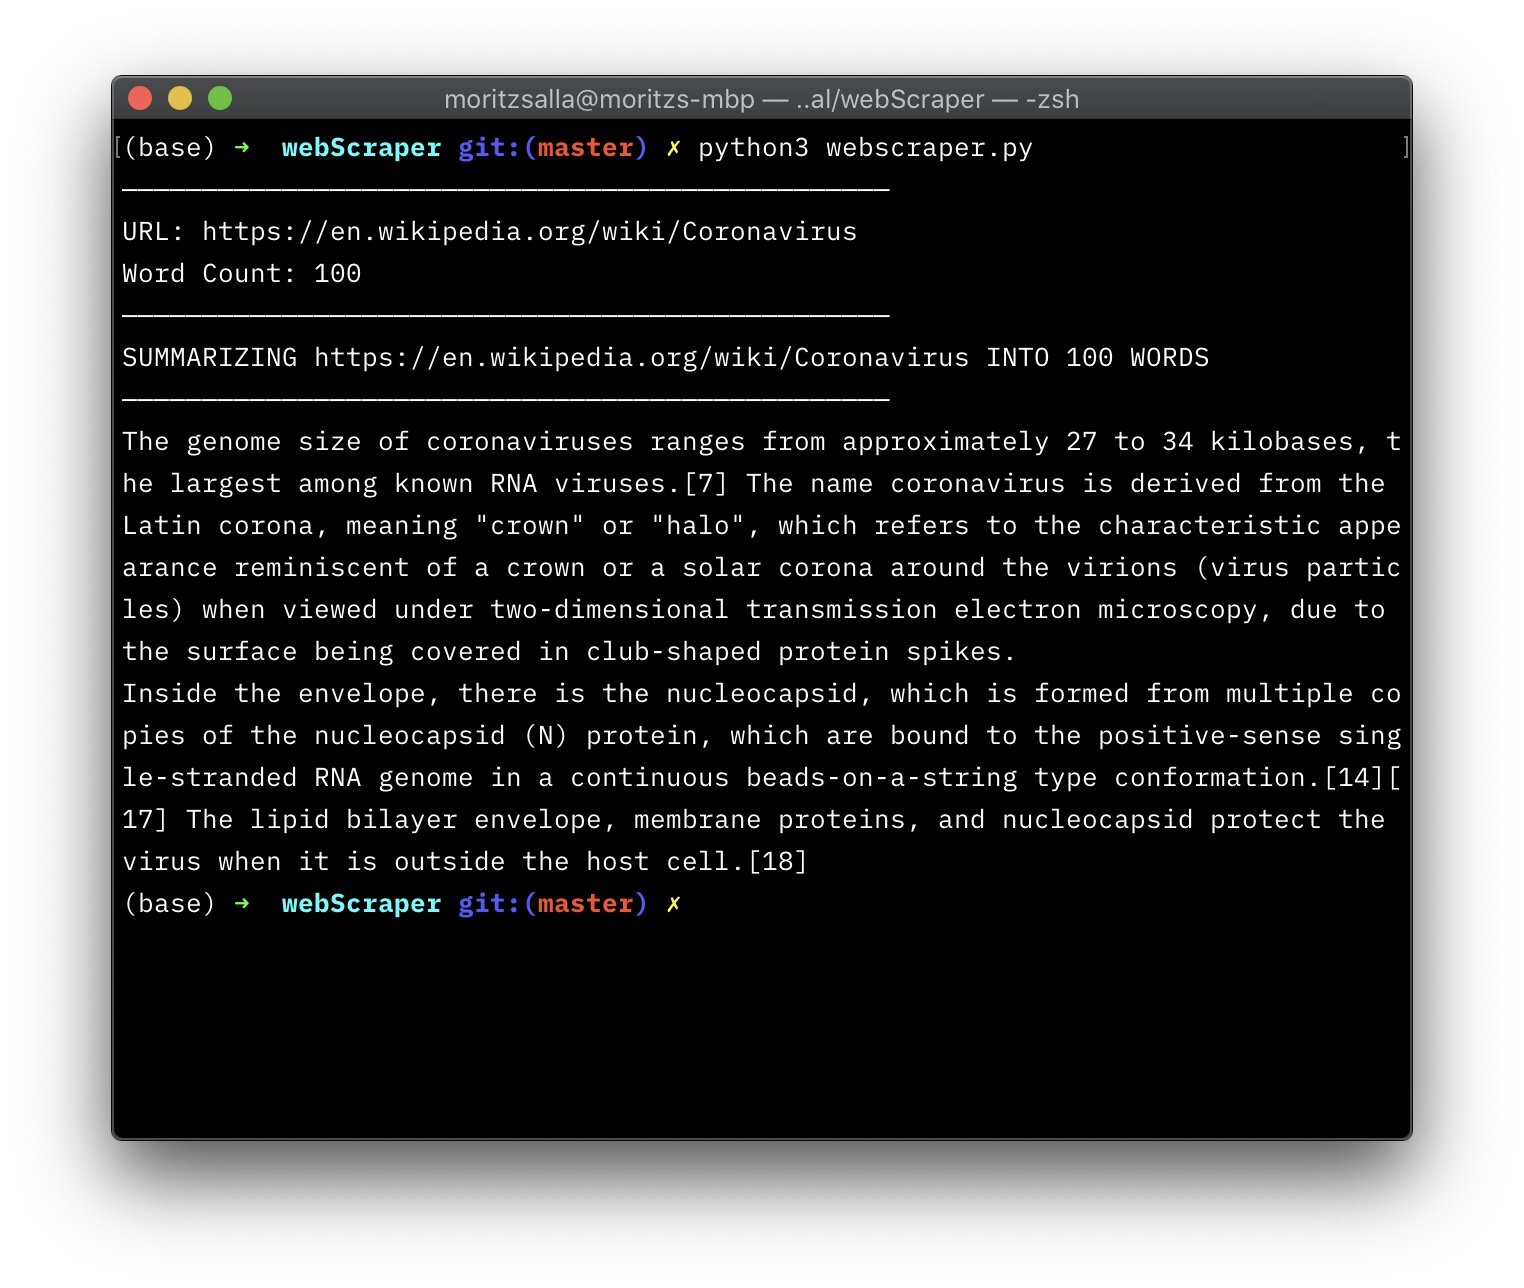
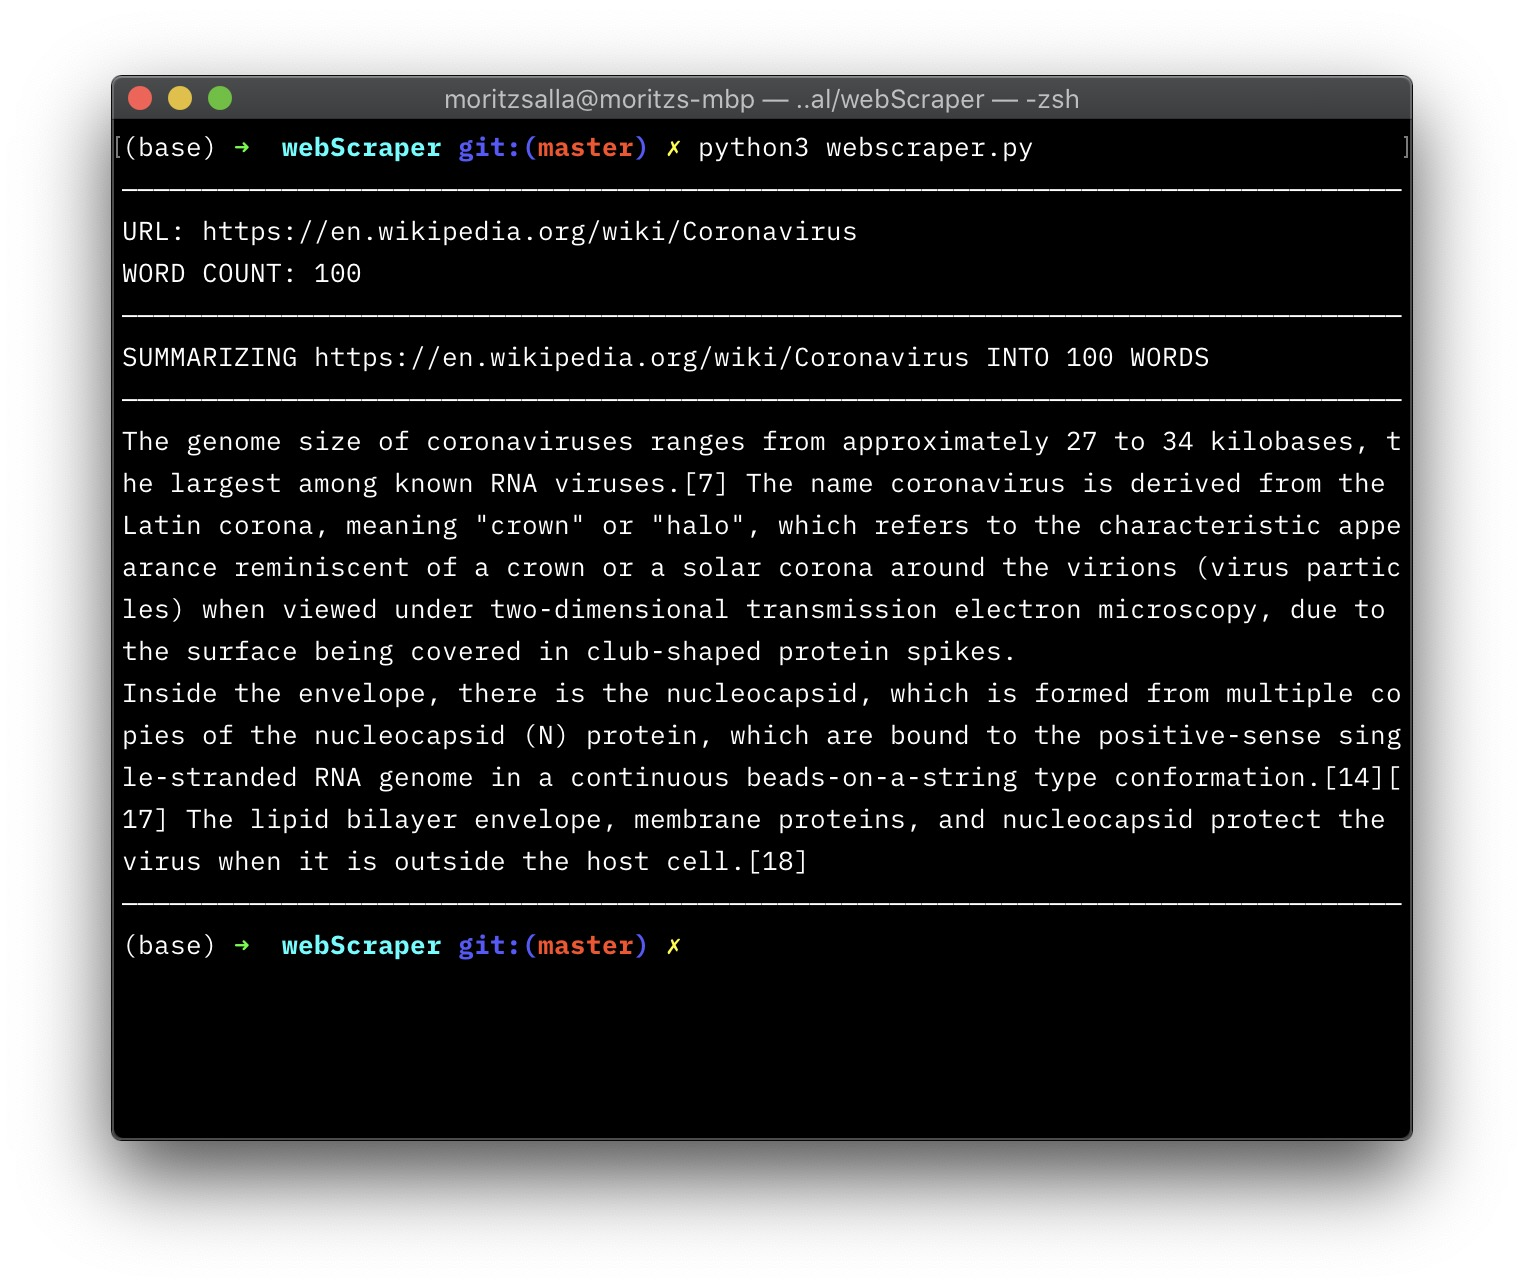
minor

diff --git a/webScraper/webscraper-ext.py b/webScraper/webscraper-ext.py
@@ -4,20 +4,19 @@ import numpy as np
 from bs4 import BeautifulSoup
 import urllib.request
 
-# URL = "https://en.wikipedia.org/wiki/Coronavirus"
-# WORD_COUNT = 100
+hr = "—" * 80
 
-print("————————————————————————————————————————————————")
+print(hr)
 
 URL = input("URL: ")
 WORD_COUNT = input("WORD COUNT: ")
 WORD_COUNT = int(WORD_COUNT)
 
-print("————————————————————————————————————————————————")
+print(hr)
 
 print(f"SUMMARIZING {URL} INTO {WORD_COUNT} WORDS")
 
-print("————————————————————————————————————————————————")
+print(hr)
 
 # Scrape Websites
 
@@ -35,3 +34,5 @@ for text in URL.find_all("p"):
 collection = summarize(collection, word_count=WORD_COUNT)
 
 print(collection)
+
+print(hr)

diff --git a/webScraper/webscraper.py b/webScraper/webscraper.py
@@ -4,17 +4,19 @@ import numpy as np
 from bs4 import BeautifulSoup
 import urllib.request
 
-print("————————————————————————————————————————————————")
+hr = "—" * 80
+
+print(hr)
 
 URL = input("URL: ")
-WORD_COUNT = input("Word Count: ")
+WORD_COUNT = input("WORD COUNT: ")
 WORD_COUNT = int(WORD_COUNT)
 
-print("————————————————————————————————————————————————")
+print(hr)
 
 print(f"SUMMARIZING {URL} INTO {WORD_COUNT} WORDS")
 
-print("————————————————————————————————————————————————")
+print(hr)
 
 # Scrape Websites
 
@@ -32,3 +34,5 @@ for text in URL.find_all("p"):
 collection = summarize(collection, word_count=WORD_COUNT)
 
 print(collection)
+
+print(hr)
